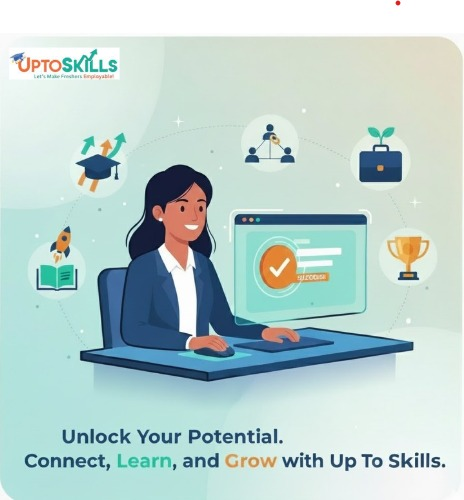
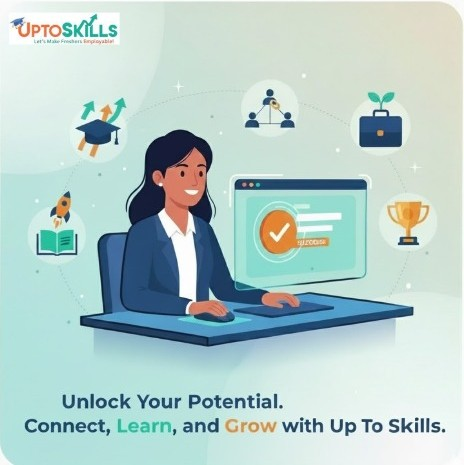
fixed login page img

diff --git a/src/pages/Login.jsx b/src/pages/Login.jsx
@@ -2,10 +2,9 @@ import React, { useState, useEffect } from "react";
 import { Link, useNavigate, useLocation } from "react-router-dom";
 import { Eye, EyeOff } from "lucide-react";
 import axios from "axios";
-import loginImage from "../assets/loginnew2.jpg";
-import { ToastContainer, toast } from 'react-toastify';
-import 'react-toastify/dist/ReactToastify.css';
-
+import loginImage from "../assets/loginnew.jpg";
+import { ToastContainer, toast } from "react-toastify";
+import "react-toastify/dist/ReactToastify.css";
 
 const LoginForm = () => {
   const [showPassword, setShowPassword] = useState(false);
@@ -34,12 +33,12 @@ const LoginForm = () => {
   const handleSubmit = async (e) => {
     e.preventDefault();
 
-    // ✅ Hardcoded admin login (fallback only — main flow still hits the API so notifications fire)
     const hardcodedAdmin = {
       email: "admin@example.com",
       password: "Admin123",
       role: "admin",
     };
+
     const isHardcodedAdmin =
       formData.email === hardcodedAdmin.email &&
       formData.password === hardcodedAdmin.password &&
@@ -70,124 +69,74 @@ const LoginForm = () => {
 
       toast.success(response.data.message || "Login successful");
 
-      if (response.data.token) localStorage.setItem("token", response.data.token);
+      if (response.data.token)
+        localStorage.setItem("token", response.data.token);
+
       if (response.data.user) {
         localStorage.setItem("user", JSON.stringify(response.data.user));
         localStorage.setItem("studentId", response.data.user.id);
         localStorage.setItem("id", response.data.user.id);
       }
 
-      const roleToSave = (
-        response.data.user?.role || formData.role
-      ).toLowerCase();
+      const role = response.data.user?.role || formData.role;
 
-      if (response.data.user) {
-        if (roleToSave === "mentor") {
-          localStorage.setItem("mentor", JSON.stringify(response.data.user));
-        }
-        if (roleToSave === "admin") {
-          localStorage.setItem("admin", JSON.stringify(response.data.user));
-        }
-      }
+      if (role === "mentor") localStorage.setItem("mentor", JSON.stringify(response.data.user));
+      if (role === "admin") localStorage.setItem("admin", JSON.stringify(response.data.user));
 
       setTimeout(() => {
-        if (roleToSave === "admin") navigate("/adminPanel");
-        else if (roleToSave === "student" || roleToSave === "learner")
-          navigate("/dashboard");
-        else if (roleToSave === "mentor") navigate("/mentor-dashboard");
-        else if (roleToSave === "company") navigate("/company");
+        if (role === "admin") navigate("/adminPanel");
+        else if (role === "student" || role === "learner") navigate("/dashboard");
+        else if (role === "mentor") navigate("/mentor-dashboard");
+        else if (role === "company") navigate("/company");
         else navigate("/login");
       }, 5000);
 
     } catch (err) {
       if (isHardcodedAdmin) {
-        console.warn("Admin API login failed, using fallback mode:", err.message);
         fallbackAdminLogin();
         return;
       }
 
-      const message =
+      toast.error(
         err.response?.data?.message ||
         err.message ||
-        "Login failed. Please try again.";
-
-      toast.error(message);
+        "Login failed. Please try again."
+      );
     }
   };
 
-
   return (
-    // <div className="h-[100vh] flex justify-center items-center px-5 lg:px-0 bg-gray-50">
-    //   <div className="max-w-screen-xl bg-white sm:rounded-lg shadow-md flex justify-center flex-1">
-      
-    //     {/* Image */}
-    //     <div className="hidden md:block  md:w-1/2 lg:w-1/2 xl:w-7/12 p-0 m-0">
-    
-    //       <div
-    //         className="h-full w-full bg-cover bg-no-repeat"
-    //         style={{ backgroundImage: `url(${loginImage})` }}
-    //       />
-    //     </div>
-      //   <div className="h-[100vh] flex items-center justify-center px-5 lg:px-0 bg-gray-50">
-      // <div className="max-w-screen-xl bg-white shadow-md sm:rounded-lg flex justify-center flex-1">
+    <div className="w-full min-h-screen flex justify-center items-center bg-gray-50">
+      <div
+        className="shadow-lg bg-white overflow-hidden flex"
+        style={{ width: "1237px", height: "651px", borderRadius: "12px" }}
 
-      //   {/* LEFT IMAGE */}
-      //   <div className="hidden md:block md:w-1/2 lg:w-1/2 xl:w-7/12">
-      //     <div
-      //       className="h-full w-full bg-cover rounded-2xl"
-      //       style={{ backgroundImage: `url(${loginImage})` }}
-      //     />
-      //   </div>
-
-  //     <div className="h-screen flex justify-center bg-gray-50 p-0 m-0">
-  // <div className="w-full max-w-screen-xl bg-white shadow-md flex p-0 m-0">
-  //   {/* LEFT IMAGE */}
-  //   <div className="hidden md:block md:w-1/2 lg:w-1/2 xl:w-7/12 h-full p-0 m-0">
-  //     <div
-  //       className="h-full w-full bg-cover bg-no-repeat"
-  //       style={{
-  //         backgroundImage: `url(${loginImage})`,
-  //         borderRadius: 0, // absolutely no curve
-  //       }}
-  //     />
-  //   </div>
-
-  
-  
-  <div className="w-full  min-h-screen flex justify-center items-center bg-gray-50 py-10 ">
-    <div className="flex w-[80%] h-[70vh] bg-white shadow-lg  overflow-hidden ">
-    {/* LEFT: Image */}
-   
-<div className="w-1/2 h-full overflow-hidden p-0 m-0 rounded-xl">
+      >
+        {/* LEFT IMAGE */}
+       <div className="w-1/2 h-full rounded-l-xl overflow-hidden">
   <img
     src={loginImage}
-    className="w-full h-full    object-cover object-center block rounded-xl"
+    className="w-full h-full object-cover object-center"
+    alt="Login Visual"
   />
 </div>
 
 
-        {/* Form */}
-
-    <div className="w-1/2 h-full flex items-center justify-center">
- 
-
-      
-      
+        {/* RIGHT FORM */}
+        <div className="w-1/2 h-full flex items-center justify-center">
           <div className="flex flex-col items-center">
 
-            {/* Toast Container positioned above heading */}
             <ToastContainer
               position="top-right"
               autoClose={2500}
               hideProgressBar={false}
               pauseOnHover
-              style={{ marginTop: '20px',right:'250px', zIndex: 9999 }}
+              style={{ marginTop: "20px", right: "250px", zIndex: 9999 }}
               closeOnClick
-             
             />
 
             <div className="text-center w-full">
-              <h1 className="text-4xl xl:text-4xl font-extrabold text-blue-900">
+              <h1 className="text-4xl font-extrabold text-blue-900">
                 <span className="text-[#00BDA6] capitalize">{formData.role}</span>{" "}
                 <span className="text-[#FF6D34]">Login</span>
               </h1>
@@ -196,11 +145,12 @@ const LoginForm = () => {
 
             <div className="w-full flex-1 mt-8">
               <form className="mx-auto max-w-xs flex flex-col gap-4" onSubmit={handleSubmit}>
+
                 <select
                   name="role"
                   value={formData.role}
                   onChange={handleChange}
-                  className="w-full px-5 py-3 rounded-lg font-medium bg-gray-100 border border-gray-200 text-gray-700 text-sm"
+                  className="w-full px-5 py-3 rounded-lg bg-gray-100 border border-gray-200 text-gray-700 text-sm"
                 >
                   <option value="admin">Login as Admin</option>
                   <option value="student">Login as Student</option>
@@ -264,19 +214,15 @@ const LoginForm = () => {
                     </span>
                   </Link>
                 </p>
+
               </form>
             </div>
+
           </div>
         </div>
-
       </div>
     </div>
   );
-
-
 };
 
-
 export default LoginForm;
-
-
